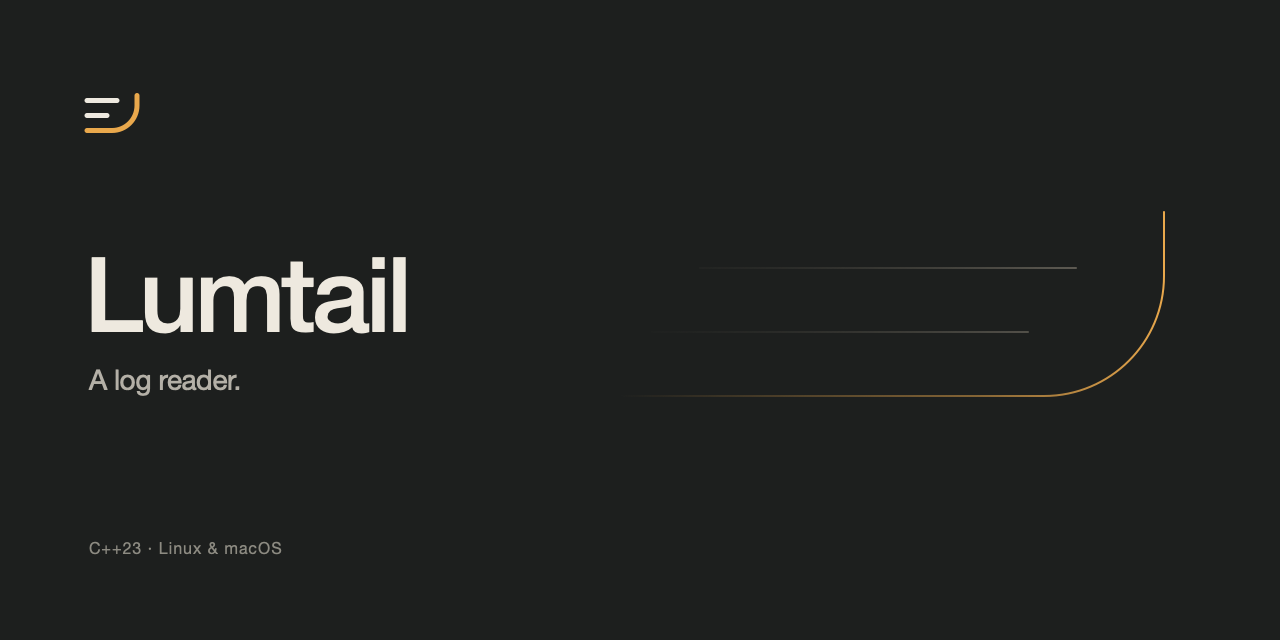
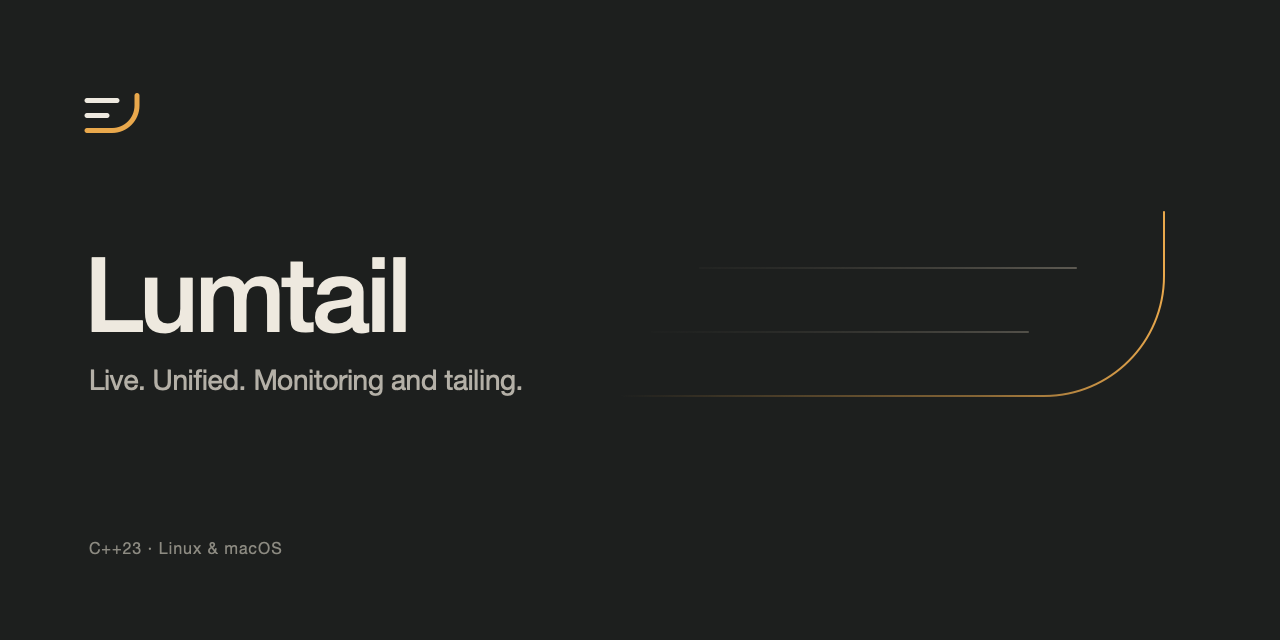
Rebrand around live unified monitoring and tailing

Changed region(s): [[0.0625, 0.5625, 0.4062, 0.625]]

diff --git a/src/usage.hpp b/src/usage.hpp
@@ -9,7 +9,7 @@
 namespace lumtail::cli {
 
 inline constexpr std::string_view welcome = R"(Lumtail
-  A clearer view of your logs.
+  Live. Unified. Monitoring and tailing.
 
   lumtail app.log                Read a log
   lumtail --follow app.log       Follow new entries
@@ -20,7 +20,7 @@ inline constexpr std::string_view welcome = R"(Lumtail
 )";
 
 inline constexpr std::string_view help = R"(Lumtail
-  A clearer view of your logs.
+  Live. Unified. Monitoring and tailing.
 
 Usage
   lumtail [options] [file ...]

diff --git a/README.md b/README.md
@@ -5,7 +5,10 @@ SPDX-License-Identifier: MIT
 
 # Lumtail
 
-Read, follow and filter server logs from a Unix terminal.
+Live. Unified. Monitoring and tailing.
+
+Lumtail follows log files and streams as they grow, reads each record
+in its own format and shows them as one stream you can filter.
 
 ```sh
 lumtail application.log
